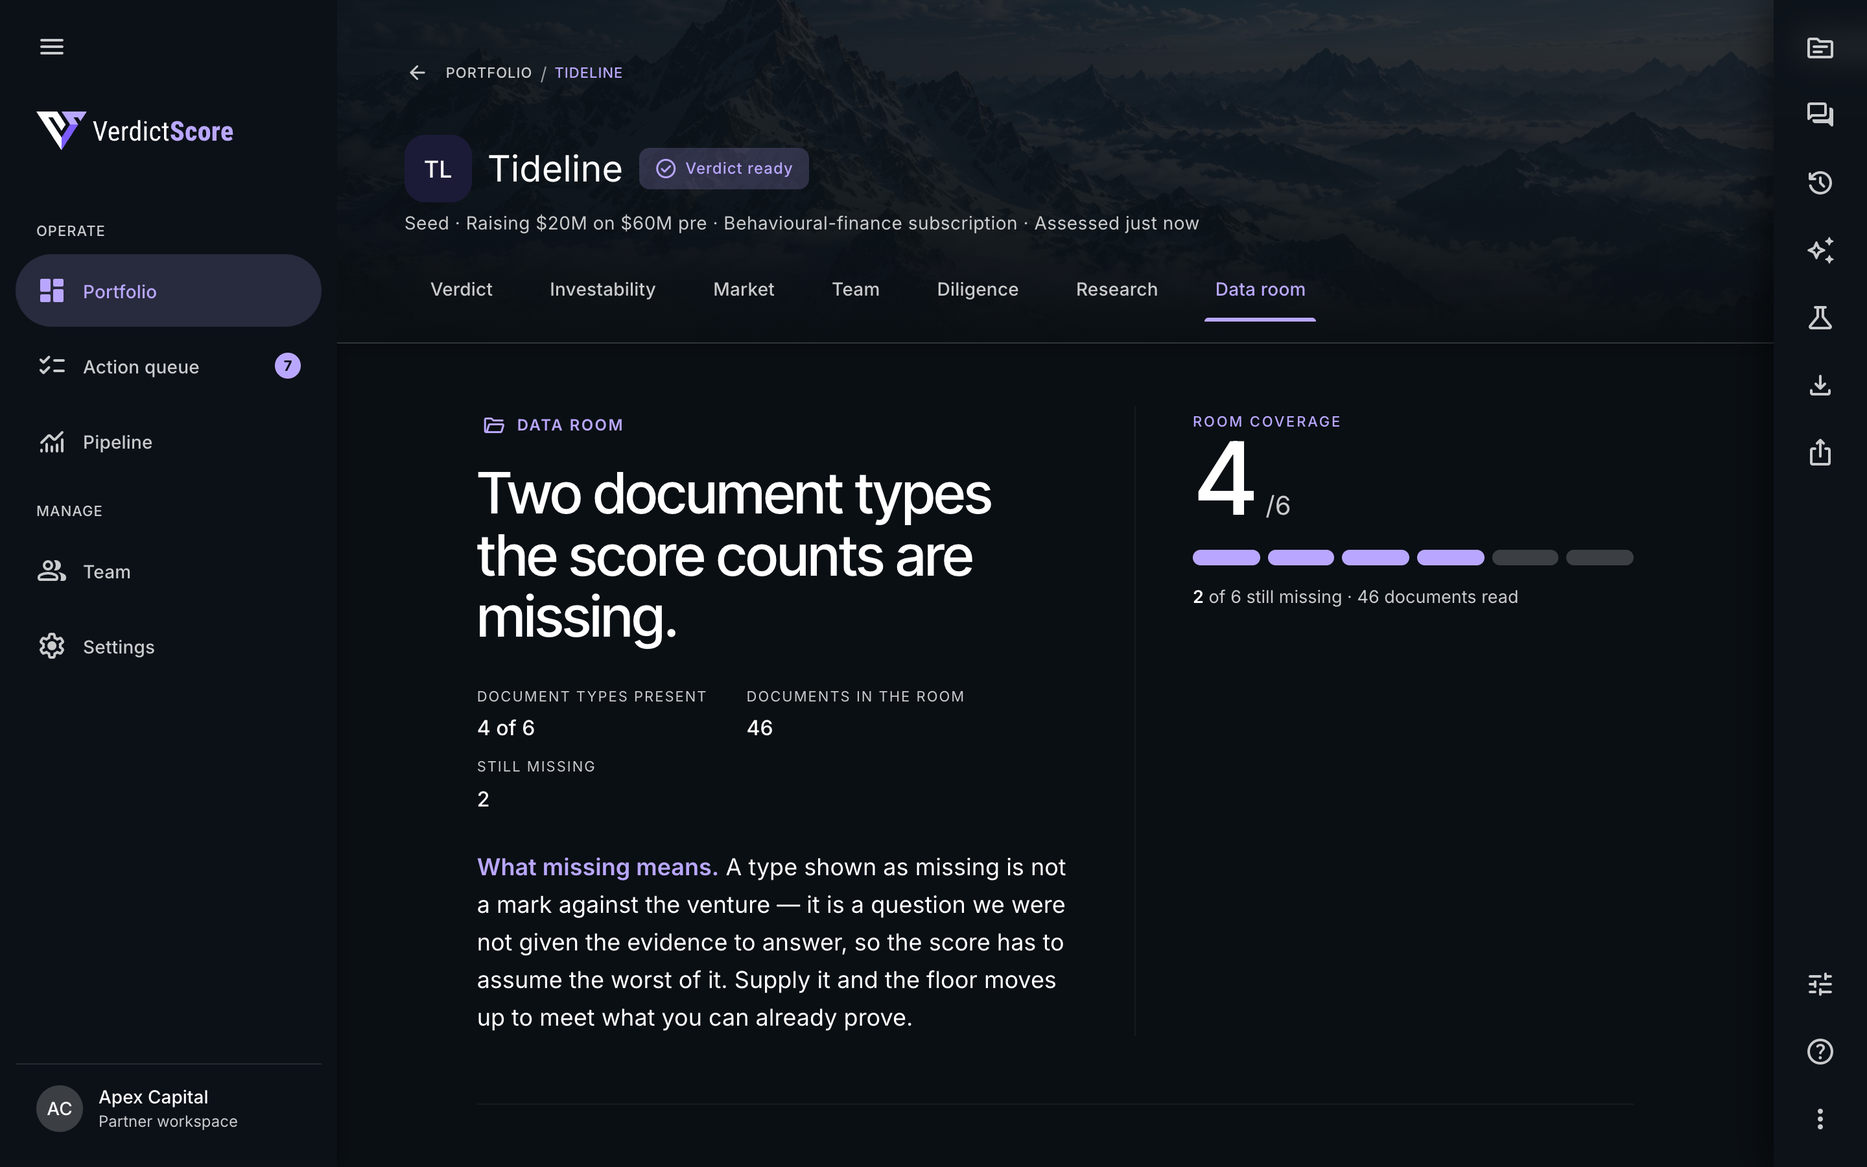
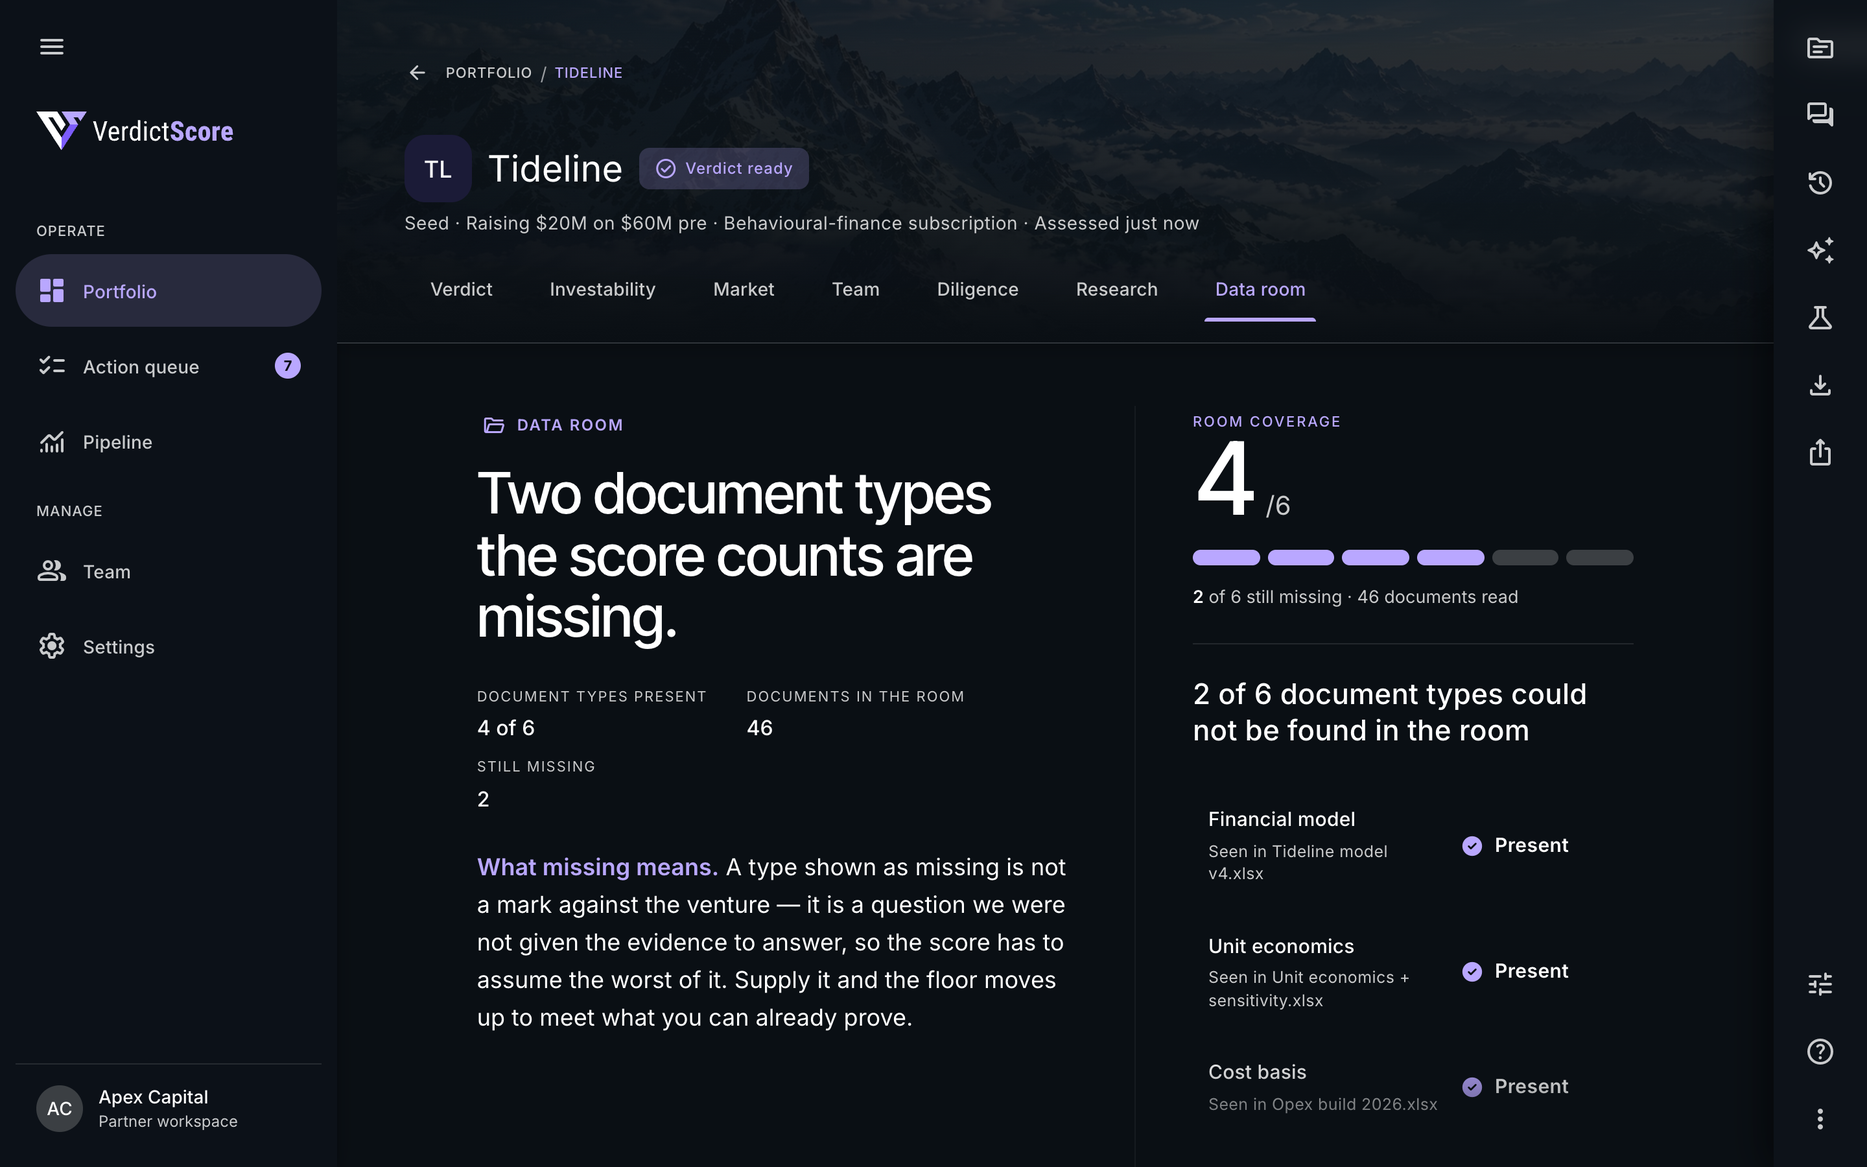
The assistant panel stops breaking the hero, and the answer arrives
Both of these are product bugs the shot made visible, so both are fixed in the
shared layer and the live workspace gets them too.

1. A PUSHED PANEL NARROWS THE PRIMARY, AND THE PRIMARY HAD TO KNOW.
   .is-compact is the DS's one narrow presentation of a page and openDrill()
   applies it; openAux() never did. MEASURED on the assessment: opening the
   assistant took the primary 1108px → 676px while it kept rendering the wide
   layout, so the verdict hero's columns went 539/408 → 293/222 — a 103px score
   number and a 116px band chip inside a 178px lockup, overlapping the arc,
   beside a statement reading at 293px. openAux now applies it, keyed on the
   MEASURED width rather than another media query, because whether there is
   room depends on the viewport, the nav rail and the panel width at once.

   And the verdict's score lockup drops out rather than stacking:
   sectionHero({rightRestates}) says "this is said in full somewhere else".
   Only the verdict hero takes it — Investability is a whole tab about that
   number. The run's progress, the room's coverage and the radar still stack,
   because those are the only place they appear.

2. THE ANSWER ARRIVES, IT DOES NOT APPEAR.
   /api/memo returns the whole answer in one response, so a reader watched
   three dots and then had four paragraphs land at once. DS.chatReveal gives
   the frames and owns the one rule that matters: never cut inside a
[…]

diff --git a/ventrify-os/shared/m3/ds.js b/ventrify-os/shared/m3/ds.js
@@ -1073,6 +1073,18 @@ export function sectionHero(opts = {}) {
     thesis = 'A real, sizeable market and a capable team, held back by unproven unit economics and a still-forming moat — the shape of the risk is clear enough to price.',
     thesisLabel = 'Thesis.',
     thesisPlacement = 'column',   // 'column' | 'span' — see the note below
+    /* rightRestates — "the thing in the right slot is said somewhere else as well, so drop it rather
+       than stack it when the column goes narrow."
+
+       Narrowing a hero collapses it to one column and the right lockup lands UNDER the statement. For
+       a lockup that is the section's own content — the run's progress, the room's coverage, the
+       radar on the Investability tab — that is right: it is the only place it appears. For the
+       verdict hero's score it is not: Investability is an entire tab about that number, so the
+       narrow view pushes the memo down the page to restate something one tab away.
+
+       A flag, because only the caller knows whether its lockup is a restatement. Default false, so
+       every existing hero keeps stacking. */
+    rightRestates = false,
 
     ...statement
   } = opts;
@@ -1105,7 +1117,7 @@ export function sectionHero(opts = {}) {
   return `<section class="sec section-hero${single ? ' single' : ''}${span ? ' thesis-span' : ''}">
       <div class="left">${leftHtml}${span ? '' : thesisHtml}</div>
       <div class="divide"></div>
-      <div class="right">${rightHtml}</div>
+      <div class="right${rightRestates ? ' restates' : ''}">${rightHtml}</div>
       ${span ? `<div class="coda">${thesisHtml}</div>` : ''}
     </section>`;
 }
@@ -2279,6 +2291,9 @@ export function verdictMemo(a, s) {
         { k: 'The ask', v: `${esc(a.askAmount)} <small>${esc(a.askRest)}</small>` }
       ],
       score: { label: 'Investability score', score: s.composite, max: 100, band: s.band, tone: BAND_TONE[s.band] || 'mid', now: s.composite, potential: s.potential, draws: s.draws || null },
+      // Investability is a whole tab about this number. Narrow the column — open the assistant, open
+      // a drill — and the reader wants the verdict, not the score restated above the fold.
+      rightRestates: true,
       thesis: a.thesis
     })}
     <hr class="rule">
@@ -3566,19 +3581,29 @@ function chatMsg(m, idx) {
     .replace(/⟨derived⟩/g, '<span class="chat-derived" title="The assistant calculated this; it is not quoted from a source">derived</span>')
     .replace(/\*\*([^*]+)\*\*/g, '<strong>$1</strong>')
     .replace(/\n/g, '<br>');
-  const chips = cited.length
+  /* ⚠ `revealing` — a FRAME of a progressive reveal, not a finished message.
+     Everything below the prose is an end-state fact about the whole answer: which sources it used,
+     which figures are unsupported, what it proposes. Rendered against a half-written frame they are
+     all wrong, and one of them is dangerously wrong — the chips come from `cited`, and dropping
+     `cited` to hide them makes every [[id]] in the prose render as the loud "unverified" warning.
+     A reveal was therefore flashing "unverified: research:claims-pressure-test" in red for two
+     seconds on an answer whose citation is perfectly good. That warning is the single thing this
+     panel exists to be trusted about.
+     So the frame keeps `cited` — the references number correctly — and suppresses the furniture. */
+  const revealing = !!m.revealing;
+  const chips = cited.length && !revealing
     ? `<div class="chat-srcs">${cited.map((id, i) => `<button class="chat-chip" data-src="${esc(id)}"><b>${i + 1}</b>${esc(id)}</button>`).join('')}</div>` : '';
-  const figs = (m.unsupportedFigures || []).length
+  const figs = !revealing && (m.unsupportedFigures || []).length
     ? `<div class="chat-warn"><span class="material-symbols-rounded">report</span>${m.unsupportedFigures.length} figure${m.unsupportedFigures.length === 1 ? '' : 's'} in this answer ${m.unsupportedFigures.length === 1 ? 'does' : 'do'} not appear in the assessment. Check ${m.unsupportedFigures.length === 1 ? 'it' : 'them'} against the source before using ${m.unsupportedFigures.length === 1 ? 'it' : 'them'}.</div>` : '';
-  const bad = (m.invalid || []).length
+  const bad = !revealing && (m.invalid || []).length
     ? `<div class="chat-warn"><span class="material-symbols-rounded">report</span>Cited ${m.invalid.length} source${m.invalid.length === 1 ? '' : 's'} that ${m.invalid.length === 1 ? 'does' : 'do'} not exist in this assessment. Treat ${m.invalid.length === 1 ? 'that claim' : 'those claims'} as unsupported.</div>` : '';
-  const omitted = (m.dropped || []).length
+  const omitted = !revealing && (m.dropped || []).length
     ? `<div class="chat-note">${m.dropped.length} research document${m.dropped.length === 1 ? '' : 's'} too large to load for this answer.</div>` : '';
   const stub = m.stub ? `<div class="chat-note">Stub mode &mdash; no model was called.</div>` : '';
   // PROPOSALS, NOT ACTIONS. Every card shows exactly what will be written and does nothing until pressed.
   // The commit runs through the operator's own credentials, so the assistant can never reach further than
   // the person reading it could by clicking the same thing themselves.
-  const props = (m.proposals || []).map((pr, j) => {
+  const props = (revealing ? [] : (m.proposals || [])).map((pr, j) => {
     const done = pr.committed ? `<div class="chat-prop-done"><span class="material-symbols-rounded">check</span>${esc(pr.committed)}</div>` : '';
     const lines = (pr.lines || []).length ? `<div class="chat-prop-l">${pr.lines.map((l) => esc(l)).join('<br>')}</div>` : '';
     const btn = pr.committed ? '' :
@@ -3588,6 +3613,28 @@ function chatMsg(m, idx) {
       <div class="chat-prop-d">${esc(pr.detail)}</div>${lines}${done}${btn}</div>`;
   }).join('');
   return `<div class="chat-msg bot">${stub}<div class="chat-body">${body}</div>${bad}${figs}${chips}${omitted}${props}</div>`;
+}
+
+/* chatReveal — a message, as the progressively longer strings a progressive reveal needs.
+ *
+ * WHY IT IS NOT JUST text.slice(n). chatMsg parses the answer before it renders it: [[id]] becomes a
+ * numbered reference, **…** becomes bold, and ⟨derived⟩ becomes the marker that separates a number
+ * the assistant worked out from one it quoted. Cut inside any of those and the half-written token
+ * renders as literal punctuation — "[[research:claims-pres" in the middle of a sentence — and the
+ * ⟨not in sources⟩ warning in particular would flicker as raw text before resolving.
+ *
+ * So the unit is an ATOM: a whole marker, or a word. A bold run is one atom too, which makes the
+ * lead-in land in one go; cutting inside it would print the asterisks.
+ *
+ * Pure, and no DOM: the caller owns the repaint and the pacing. ONE rule in ONE place, because the
+ * parser it has to agree with is ten lines above it.
+ */
+export function chatReveal(text = '') {
+  const atoms = String(text).match(/(\[\[[^\]]*\]\]|\*\*[^*]*\*\*|\u27e8[^\u27e9]*\u27e9|\s+|\S+)/g) || [];
+  const frames = [];
+  let acc = '';
+  for (const a of atoms) { acc += a; if (!/^\s+$/.test(a)) frames.push(acc); }
+  return frames;
 }
 
 export function chatPanel(c = {}) {
@@ -5016,6 +5063,25 @@ export function initShell() {
   // the two "no room to push an aux" breakpoints, mirroring theme.css
   const mqAuxPush = window.matchMedia('(max-width: 900px)');        // default 440px panel
   const mqAuxPushWide = window.matchMedia('(max-width: 1679px)');   // wide 720px panel
+
+  /* ---- A PUSHED PANEL NARROWS THE PRIMARY, AND THE PRIMARY HAS TO KNOW ----
+     .is-compact is the DS's one narrow presentation of a page, and openDrill() applies it. openAux()
+     did not — so pushing the panel took the primary from 1108px to 676px while it kept rendering the
+     wide layout. MEASURED on the assessment: the verdict hero's columns went 539px/408px → 293px/222px,
+     which puts a 103px score number and a 116px band chip inside a 178px lockup. They overlap the arc,
+     and the statement beside them is reading at 293px.
+
+     Keyed on the MEASURED width, not on another media query: whether there is room depends on the
+     viewport, the nav rail and which panel width was asked for, and only the result knows all three.
+     900px is the same threshold mqAuxPush uses to decide the panel can push at all. */
+  const AUX_NARROW = 900;
+  const syncAuxCompact = () => {
+    const app = document.querySelector('.m3-app'); if (!app) return;
+    const main = app.querySelector('.shell-main'); if (!main) return;
+    if (app.classList.contains('drill-open')) return;     // the drill owns the class while it is open
+    const pushing = app.classList.contains('aux-push') && !app.classList.contains('aux-floating');
+    main.classList.toggle('is-compact', pushing && main.getBoundingClientRect().width < AUX_NARROW);
+  };
   window.openAux = (opts = {}) => {
     const app = document.querySelector('.m3-app'); if (!app) return;
     window.closeNav && window.closeNav();
@@ -5046,6 +5112,7 @@ export function initShell() {
     // to re-state the scrim on its own; now they only decide the WIDTH and this decides the
     // BEHAVIOUR — scrim up, chrome beneath it, dialog semantics.
     app.classList.toggle('aux-floating', floating);
+    requestAnimationFrame(syncAuxCompact);               // after the push has actually reflowed
     if (floating) {
       lastFocused = lastFocused || document.activeElement;
       document.body.classList.add('overlay-lock');
@@ -5057,6 +5124,7 @@ export function initShell() {
   window.closeAux = () => {
     const app = document.querySelector('.m3-app'); if (!app) return;
     app.classList.remove('aux-open', 'aux-push', 'aux-modal', 'aux-wide', 'aux-floating');
+    syncAuxCompact();
     const a = app.querySelector('.m3-aux'); if (a) { a.removeAttribute('role'); a.removeAttribute('aria-modal'); }
     app.querySelectorAll('.urail-item.on').forEach(b => b.classList.remove('on'));
     if (!app.classList.contains('nav-open') && !app.classList.contains('drill-open')) document.body.classList.remove('overlay-lock');
@@ -5254,6 +5322,11 @@ export function initShell() {
   // set once at open time — so an open panel that crosses its breakpoint has to be re-synced, or
   // it keeps a scrim it no longer needs (or loses one it does). Mirrors the two media queries in
   // theme.css: 900px for the default panel, 1680px for the wide one.
+  // the primary can be resized without the panel changing — a window drag, the nav rail collapsing
+  if (window.ResizeObserver) {
+    const m = document.querySelector('.shell-main');
+    if (m) new ResizeObserver(syncAuxCompact).observe(m);
+  }
   [mqAuxPush, mqAuxPushWide].forEach(mq => mq.addEventListener('change', () => {
     const app = app0(); if (!app || !app.classList.contains('aux-open')) return;
     const aux = app.querySelector('.m3-aux');

diff --git a/ventrify-os/workspace/assess-next.html b/ventrify-os/workspace/assess-next.html
@@ -817,17 +817,22 @@
   // We therefore render the operator's own question optimistically and let the subscription replace it.
   const CHAT = { name: p.ventureName || p.name || 'this venture', messages: [], pending: false };
 
-  function chatRepaint() {
-    const panel = DS.chatPanel({ ventureName: CHAT.name, messages: CHAT.messages, pending: CHAT.pending });
+  /* logOnly — repaint the conversation WITHOUT rebuilding the composer.
+     The reveal below repaints up to ninety times as an answer lands. This function also rewrites the
+     aux FOOTER, which is where the textarea lives, and refocuses it — so a full repaint per frame
+     would destroy a question the operator had started typing while reading the last answer, ninety
+     times, and yank the caret back each time. The log is the only thing changing. */
+  function chatRepaint({ logOnly = false, pending = CHAT.pending } = {}) {
+    const panel = DS.chatPanel({ ventureName: CHAT.name, messages: CHAT.messages, pending });
     const body = document.querySelector('.m3-aux .aux-body');
     const foot = document.querySelector('.m3-aux .aux-foot');
     if (!body) return;                       // the panel is not open — nothing to repaint
     body.innerHTML = panel.body;
-    if (foot) foot.innerHTML = panel.footer;
+    if (foot && !logOnly) foot.innerHTML = panel.footer;
     const log = document.getElementById('chat-log');
     if (log) log.scrollTop = log.scrollHeight;
     const input = document.getElementById('chat-input');
-    if (input && !CHAT.pending) input.focus();
+    if (input && !CHAT.pending && !logOnly) input.focus();
   }
 
   // DELEGATED, NOT BOUND. The first cut attached listeners inside chatBind() and only ever called it from
@@ -901,7 +906,35 @@
       });
       const d = await r.json().catch(() => ({}));
       if (!r.ok) throw new Error(d.detail || d.error || ('HTTP ' + r.status));
-      CHAT.messages = [...CHAT.messages, { role: 'assistant', text: d.text, cited: d.cited, invalid: d.invalid, unsupportedFigures: d.unsupportedFigures, proposals: d.proposals, stub: d.stub, dropped: d.dropped }];
+      const answer = { role: 'assistant', text: d.text, cited: d.cited, invalid: d.invalid, unsupportedFigures: d.unsupportedFigures, proposals: d.proposals, stub: d.stub, dropped: d.dropped };
+      /* THE ANSWER ARRIVES, IT DOES NOT APPEAR. /api/memo returns the whole answer in one response —
+         there is no token stream — so a reader watched three dots for several seconds and then had
+         four paragraphs land at once, with no way to start reading until all of it was there.
+         Revealing it is a PRESENTATION choice, not a claim about how it was produced: nothing here
+         says the words are arriving live, and the sources and proposals land at the end, after the
+         prose, which is the order they should be read in.
+
+         DS.chatReveal owns the one rule that matters — never cut inside a [[citation]], a **bold
+         run** or a ⟨derived⟩ marker, because chatMsg parses all three and half a marker renders as
+         literal punctuation. Capped at ~90 repaints so a long answer does not cost more frames than
+         a short one, and wrapped so a failure here can never swallow an answer that arrived. */
+      try {
+        const frames = DS.chatReveal(d.text || '');
+        const step = Math.max(1, Math.ceil(frames.length / 90));
+        const base = CHAT.messages;
+        const bare = { ...answer, revealing: true };   // keeps `cited`, so no frame can read as unverified
+        for (let i = 0; i < frames.length; i += step) {
+          CHAT.messages = [...base, { ...bare, text: frames[i] }];
+          // CHAT.pending stays TRUE for the whole reveal — it is what chatSend() checks, and the
+          // line after this loop rebuilds the log from `base`, so a second question sent while the
+          // first was still arriving would be silently thrown away. Only the RENDER is told the
+          // dots are finished; the send remains closed until the answer is whole.
+          chatRepaint({ logOnly: true, pending: false });
+          await new Promise(r => setTimeout(r, 26));
+        }
+        CHAT.messages = base;
+      } catch (_) { /* fall through to the whole answer */ }
+      CHAT.messages = [...CHAT.messages, answer];
     } catch (e) {
       CHAT.messages = [...CHAT.messages, { role: 'assistant', text: 'That question could not be answered: ' + ((e && e.message) || e), invalid: [] }];
     } finally {

diff --git a/ventrify-os/_redesign/m3/demo-tideline.js b/ventrify-os/_redesign/m3/demo-tideline.js
@@ -377,8 +377,20 @@ export const demo = {
     // otherwise sit in the box underneath its own answer.
     if (box) box.value = '';
     repaintChat(true);                      // the three dots: the product's own pending state
-    await sleep(2400);
-    chat = chat.concat([CHAT.a]);
+    await sleep(1800);
+
+    /* THE ANSWER ARRIVES, IT DOES NOT APPEAR. Same reveal the live workspace uses — DS.chatReveal
+       gives the frames and never cuts inside a [[citation]], a **bold run** or a ⟨derived⟩ marker.
+       The sources and the proposal land at the END, after the prose, which is both what a streaming
+       interface does and the right order to read it in: the claim, then what backs it. */
+    const asked = chat;                                  // everything up to and including the question
+    const bare = { ...CHAT.a, revealing: true };   // keeps `cited`, so no frame can read as unverified
+    for (const frame of DS.chatReveal(CHAT.a.text)) {
+      chat = asked.concat([{ ...bare, text: frame }]);
+      repaintChat(false);
+      await sleep(26);
+    }
+    chat = asked.concat([CHAT.a]);                       // the sources and the proposal, last
     repaintChat(false);
     await sleep(400);
   },

diff --git a/ventrify-os/shared/m3/theme.css b/ventrify-os/shared/m3/theme.css
@@ -626,6 +626,12 @@ md-outlined-button, md-filled-button, md-text-button, md-filled-tonal-button { -
 .shell-main.is-compact .eng-table td[data-th]::before { content: attr(data-th) " · "; color: var(--md-sys-color-on-surface-variant); font-size: 12px; }
 /* editorial lockups + content grids → single column at ANY viewport */
 .shell-main.is-compact .section-hero { grid-template-columns: 1fr; }
+/* …and a lockup the caller marked as a RESTATEMENT goes entirely, rather than stacking under the
+   statement and pushing the section's actual content down the page. sectionHero({rightRestates})
+   is the opt-in; only the verdict hero's score takes it, because Investability is a whole tab about
+   that number. Everything else — the run's progress, the room's coverage, the radar — stacks. */
+.shell-main.is-compact .section-hero .right.restates { display: none; }
+.shell-main.is-compact .section-hero:has(.right.restates) .divide { display: none; }
 .shell-main.is-compact .section-hero .divide { display: none; }
 .shell-main.is-compact .section-hero .left { padding-right: 0; }
 .shell-main.is-compact .section-hero .right { padding-left: 0; padding-top: 28px; }

diff --git a/sites/verdict-score/index.html b/sites/verdict-score/index.html
@@ -199,9 +199,12 @@
 
       <!-- A STILL, deliberately. The section is about the state of your room, and a state is a
            thing to read rather than watch; the coverage figure above it is already the live
-           component. Shot from the same demo page as the rest, so the venture matches. -->
+           component. Shot from the same demo page as the rest, so the venture matches.
+           COMPOSED: the head and first rows of "what the score looks for" are lifted into the
+           hero's right column, which the product leaves empty and which puts that list 22px below
+           the fold. See the note in shoot-live-demo.mjs. -->
       <v-shot base="../../" name="shots/vs-dataroom" frame
-              alt="The Data room tab: every document the assessment read, and which of the six document types the score counts are present and which are still missing"></v-shot>
+              alt="The Data room tab: four of the six document types the score counts are present and two are missing, read from 46 documents, with the first of those types listed beside the coverage figure"></v-shot>
     </div>
   </section>
 
